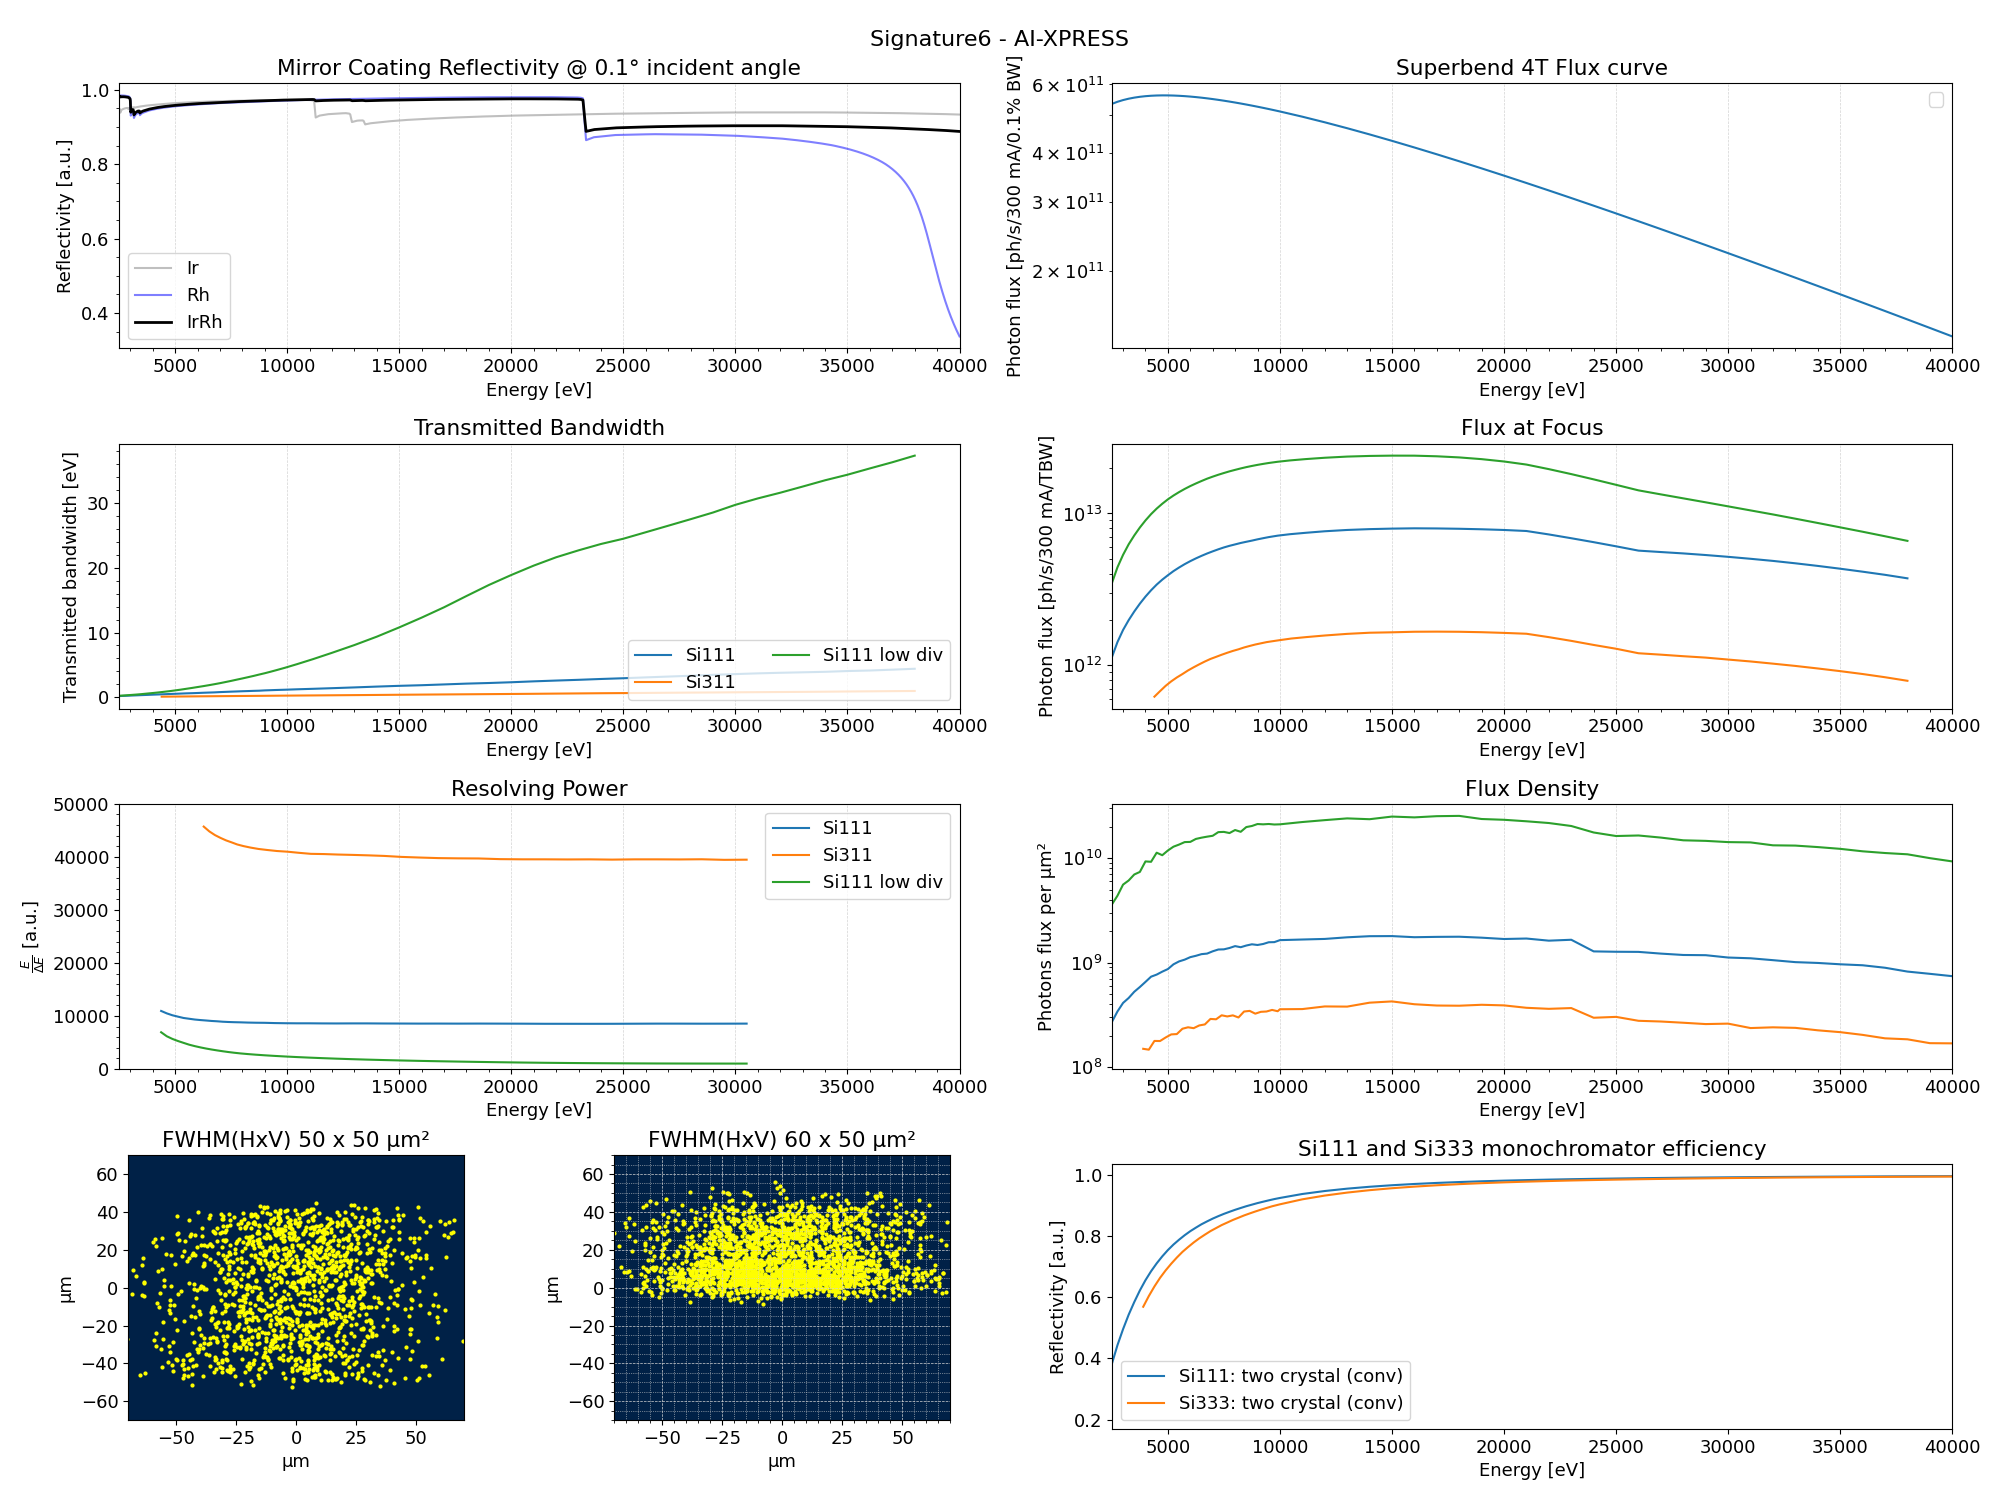
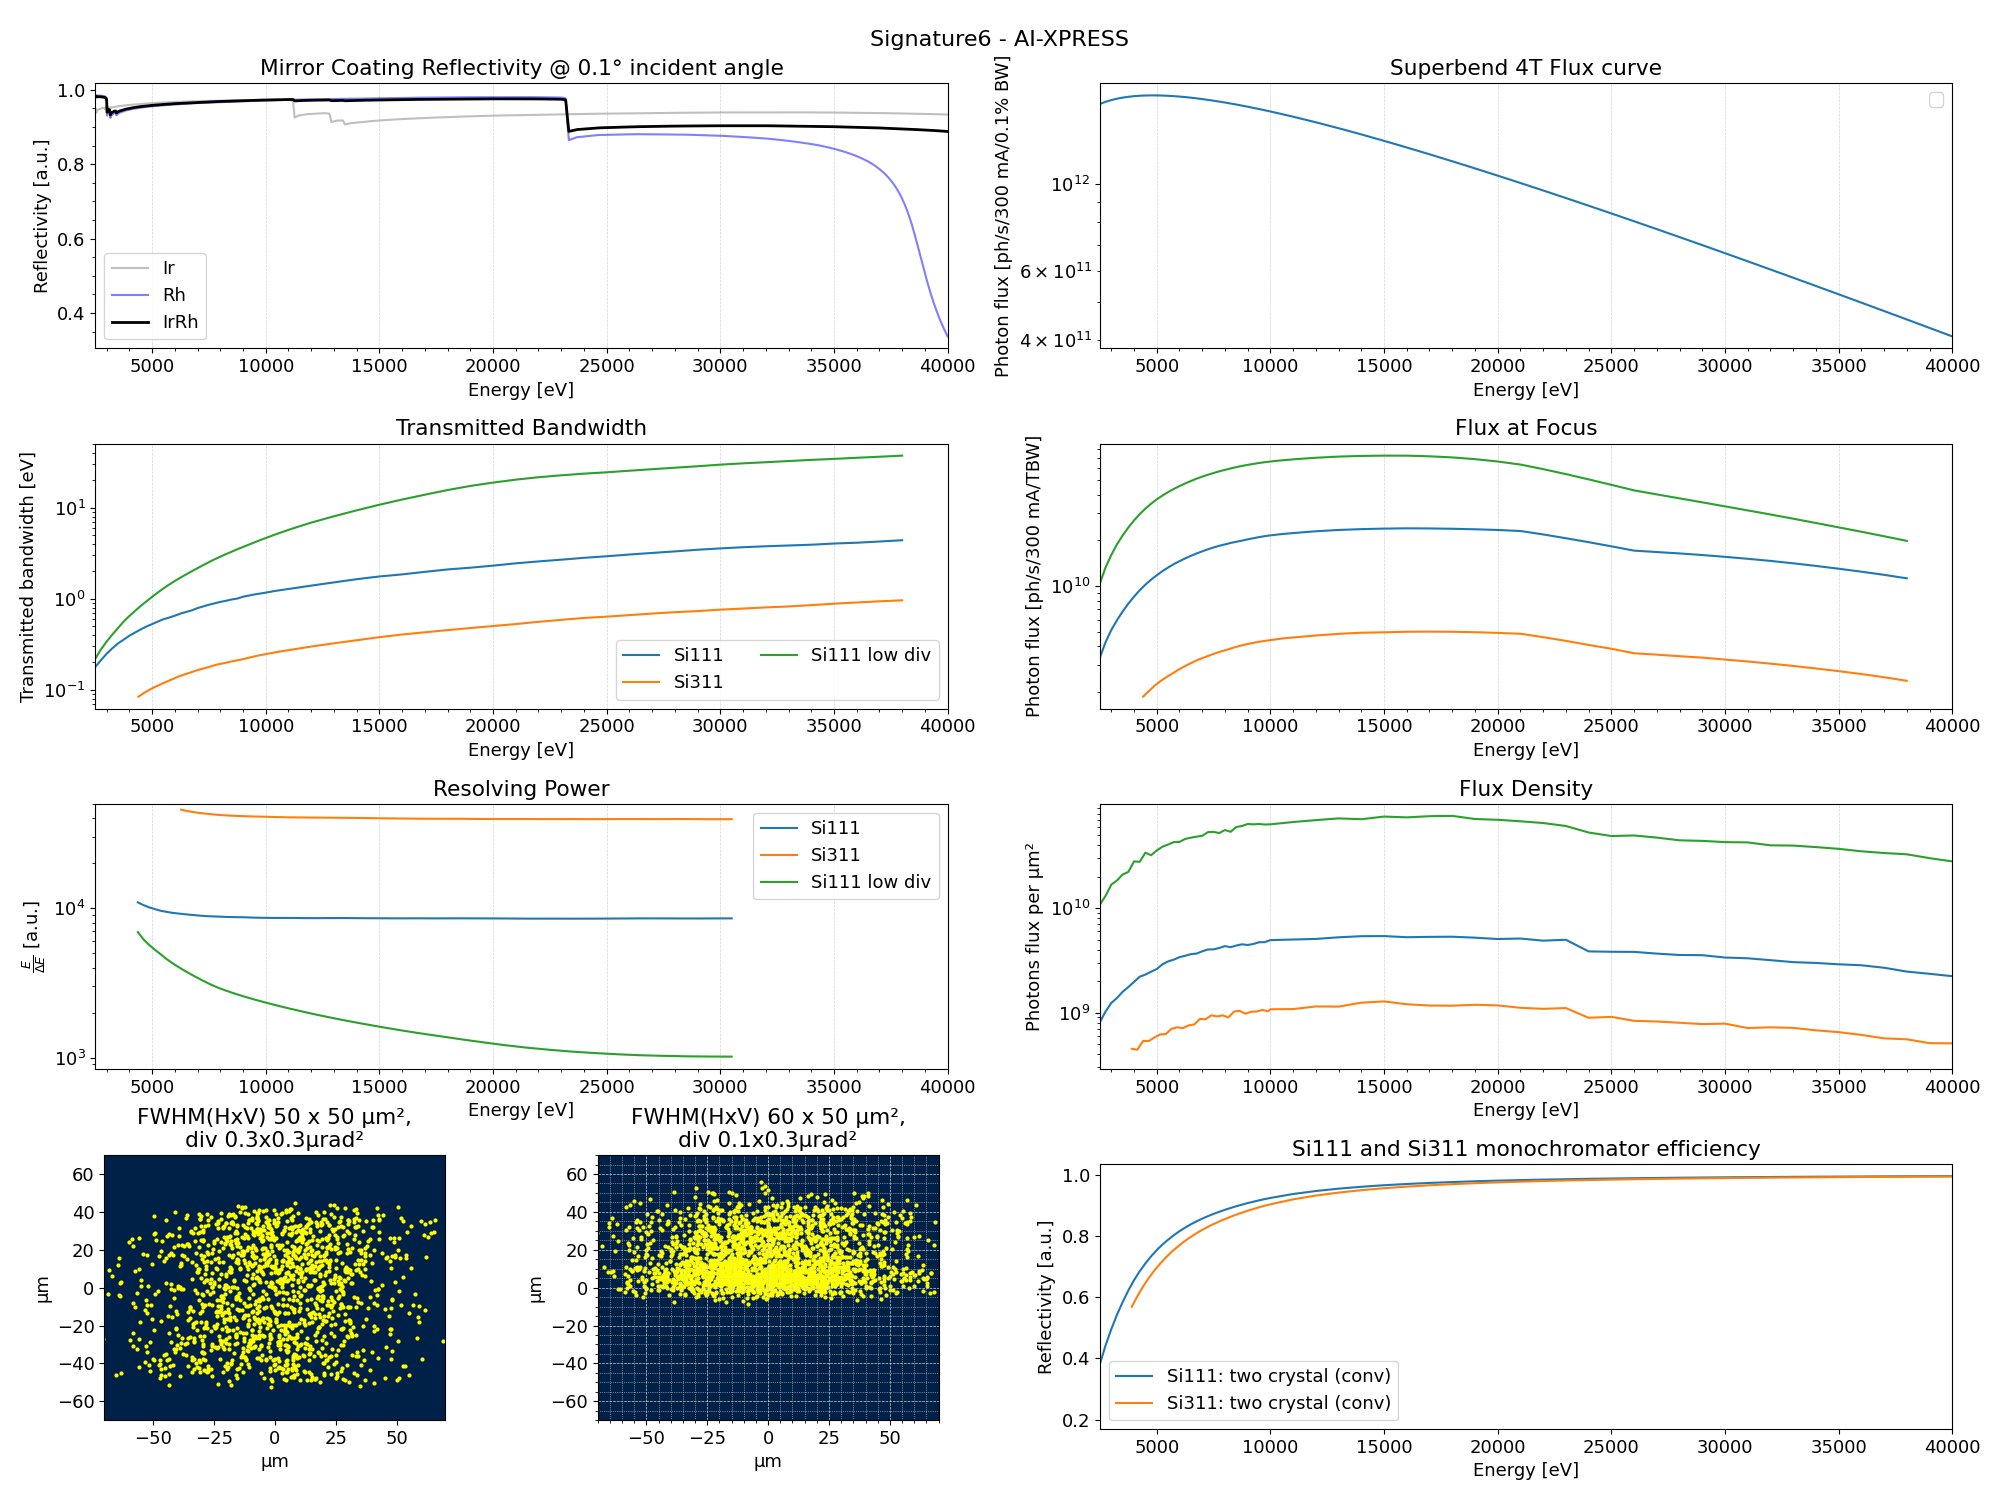
fix eval

diff --git a/beamlines/Signature6-AI-XPRESS/simulations/characterization/eval_both.py b/beamlines/Signature6-AI-XPRESS/simulations/characterization/eval_both.py
@@ -17,14 +17,23 @@ p = PostProcessAnalyzed()
 mov_av = p.moving_average
 ##############################################################
 # LOAD IN DATA
-
+current_factor = 3
 # Read CSV-File of the Beamline Simulation
 BL_file_path = os.path.join('RAYPy_Simulation_AI-XPRESS_Si111', 'DetectorAtFocus_RawRaysOutgoing.csv')
 BL_df_si111 = pd.read_csv(BL_file_path)
+BL_df_si111[f'SourcePhotonFlux'] = BL_df_si111[f'SourcePhotonFlux']*current_factor # for 300 mA
+BL_df_si111[f'PhotonFlux'] = BL_df_si111[f'PhotonFlux']*current_factor # for 300 mA
+
 BL_file_path = os.path.join('RAYPy_Simulation_AI-XPRESS_Si111_LowDiv', 'DetectorAtFocus_RawRaysOutgoing.csv')
 BL_df_si111_low = pd.read_csv(BL_file_path)
+BL_df_si111_low[f'SourcePhotonFlux'] = BL_df_si111_low[f'SourcePhotonFlux']*current_factor # for 300 mA
+BL_df_si111_low[f'PhotonFlux'] = BL_df_si111_low[f'PhotonFlux']*current_factor # for 300 mA
+
 BL_file_path = os.path.join('RAYPy_Simulation_AI-XPRESS_Si311', 'DetectorAtFocus_RawRaysOutgoing.csv')
 BL_df_si311 = pd.read_csv(BL_file_path)
+BL_df_si311[f'SourcePhotonFlux'] = BL_df_si311[f'SourcePhotonFlux']*current_factor # for 300 mA
+BL_df_si311[f'PhotonFlux'] = BL_df_si311[f'PhotonFlux']*current_factor # for 300 mA
+
 
 ##############################################################
 # PLOTTING AND ANALYSIS
@@ -107,6 +116,7 @@ ax3.set_xlabel('Energy [eV]')
 ax3.set_ylabel('Transmitted bandwidth [eV]')
 ax3.set_xlim(x_range)
 ax3.minorticks_on()
+ax3.set_yscale('log')
 ax3.grid(which='major', axis='x', linestyle='--', linewidth=0.5, color='lightgrey')
 ax3.legend(loc='lower right', ncol=2)
 
@@ -116,16 +126,16 @@ ax4 = axs[1, 1]
 
 # Si111
 ax4.plot(mov_av(BL_df_si111['PhotonEnergy'], window), 
-            mov_av(BL_df_si111['PhotonFlux']*1000, window),
+            mov_av(BL_df_si111['PhotonFlux'], window),
             label=f'Si111')    
 # Si311
 ax4.plot(mov_av(BL_df_si311['PhotonEnergy'], window), 
-            mov_av(BL_df_si311['PhotonFlux']*1000, window),
+            mov_av(BL_df_si311['PhotonFlux'], window),
             label=f'Si311')   
 
 # Si111 low
 ax4.plot(mov_av(BL_df_si111_low['PhotonEnergy'], window), 
-            mov_av(BL_df_si111_low['PhotonFlux']*1000, window),
+            mov_av(BL_df_si111_low['PhotonFlux'], window),
             label=f'Si111 low div')  
 
 ax4.set_title('Flux at Focus')
@@ -161,6 +171,7 @@ ax5.set_ylabel(r'$\frac{E}{\Delta E}$ [a.u.]')
 ax5.set_xlim(x_range)
 ax5.legend(loc='best')
 ax5.minorticks_on()
+ax5.set_yscale('log')
 ax5.set_ylim(0, 50000)
 ax5.grid(which='major', axis='x', linestyle='--', linewidth=0.5, color='lightgrey')
 
@@ -219,17 +230,6 @@ ax7.scatter(x,y, s=4, color='yellow', alpha=1)
 
 ax7.set_facecolor('#002147')
 
-# # get actual axes width/height in inches
-# fig = ax7.figure
-# bbox = ax7.get_window_extent().transformed(fig.dpi_scale_trans.inverted())
-# width, height = bbox.width, bbox.height
-
-# # compute new symmetric xlim so µm/cm is same horizontally and vertically
-# yrange = np.diff(ax7.get_ylim())[0]
-# xrange_target = yrange * (width / height)
-# x_half = xrange_target / 2
-# ax7.set_xlim(-x_half/100*40, x_half/100*40)
-
 ax7.set_xlim(-70, 70)
 ax7.set_ylim(-70, 70)
 
@@ -237,7 +237,7 @@ ax7.set_xlabel('µm')
 ax7.set_ylabel('µm')
 hor_foc = np.mean(BL_df_si111['HorizontalFocusFWHM']*1e3)
 ver_foc = np.mean(BL_df_si111['VerticalFocusFWHM']*1e3)
-ax7.set_title(f'FWHM(HxV) {50:.0f} x {50:.0f} µm²')
+ax7.set_title(f'FWHM(HxV) {50:.0f} x {50:.0f} µm²,\ndiv {.3}x{.3}µrad²')
 
 ####################################################
 # Focus low div
@@ -259,24 +259,13 @@ ax7_right.scatter(x,y, s=4, color='yellow', alpha=1)
 
 ax7_right.set_facecolor('#002147')
 
-# # get actual axes width/height in inches
-# fig = ax7_right.figure
-# bbox = ax7_right.get_window_extent().transformed(fig.dpi_scale_trans.inverted())
-# width, height = bbox.width, bbox.height
-
-# # compute new symmetric xlim so µm/cm is same horizontally and vertically
-# yrange = np.diff(ax7_right.get_ylim())[0]
-# xrange_target = yrange * (width / height)
-# x_half = xrange_target / 2
-# ax7_right.set_xlim(-x_half/100*40, x_half/100*40)
-
 ax7_right.set_xlim(-70, 70)
 ax7_right.set_ylim(-70, 70)
 ax7_right.set_xlabel('µm')
 ax7_right.set_ylabel('µm')
 hor_foc = np.mean(BL_df_si111['HorizontalFocusFWHM']*1e3)
 ver_foc = np.mean(BL_df_si111['VerticalFocusFWHM']*1e3)
-ax7_right.set_title(f'FWHM(HxV) {60:.0f} x {50:.0f} µm²')
+ax7_right.set_title(f'FWHM(HxV) {60:.0f} x {50:.0f} µm²,\ndiv {.1}x{.3}µrad²')
 
 
 # DCM efficiency
@@ -284,10 +273,10 @@ ax8 = axs[3, 1]
 df_111 = pd.read_csv(os.path.join('plot','Si111', 'Si111.csv'))
 df_311 = pd.read_csv(os.path.join('plot','Si311', 'Si311.csv'))
 ax8.plot(df_111['Energy[eV]'], df_111['Reflectivity_2'], label='Si111: two crystal (conv)')
-ax8.plot(df_311['Energy[eV]'], df_311['Reflectivity_2'], label='Si333: two crystal (conv)')
+ax8.plot(df_311['Energy[eV]'], df_311['Reflectivity_2'], label='Si311: two crystal (conv)')
 ax8.set_xlabel('Energy [eV]')
 ax8.set_ylabel('Reflectivity [a.u.]')
-ax8.set_title('Si111 and Si333 monochromator efficiency')
+ax8.set_title('Si111 and Si311 monochromator efficiency')
 ax8.set_xlim(x_range)
 ax8.legend()
 # minor ticks and grid

diff --git a/beamlines/Signature6-AI-XPRESS/simulations/comparison_with_BII/eval_both_Pin.py b/beamlines/Signature6-AI-XPRESS/simulations/comparison_with_BII/eval_both_Pin.py
@@ -119,11 +119,11 @@ ax4 = axs[1, 1]
 
 # BIII Si111
 ax4.plot(mov_av(BL_df_si111['PhotonEnergy'], window), 
-            mov_av(BL_df_si111['PhotonFlux']*1000, window),
+            mov_av(BL_df_si111['PhotonFlux'], window),
             label=f'BIII Si111')    
 # BII Si111
 ax4.plot(mov_av(myspot_Si111['PhotonEnergy'], window), 
-            mov_av(myspot_Si111['PhotonFlux']*1000, window),
+            mov_av(myspot_Si111['PhotonFlux'], window),
             label=f'BII Si111')   
 
 ax4.set_title('Flux at Focus')

diff --git a/beamlines/Signature6-AI-XPRESS/simulations/comparison_with_BII/eval_both_noPin.py b/beamlines/Signature6-AI-XPRESS/simulations/comparison_with_BII/eval_both_noPin.py
@@ -119,11 +119,11 @@ ax4 = axs[1, 1]
 
 # BIII Si111
 ax4.plot(mov_av(BL_df_si111['PhotonEnergy'], window), 
-            mov_av(BL_df_si111['PhotonFlux']*1000, window),
+            mov_av(BL_df_si111['PhotonFlux'], window),
             label=f'BIII Si111')    
 # BII Si111
 ax4.plot(mov_av(myspot_Si111['PhotonEnergy'], window), 
-            mov_av(myspot_Si111['PhotonFlux']*1000, window),
+            mov_av(myspot_Si111['PhotonFlux'], window),
             label=f'BII Si111')   
 
 ax4.set_title('Flux at Focus')
